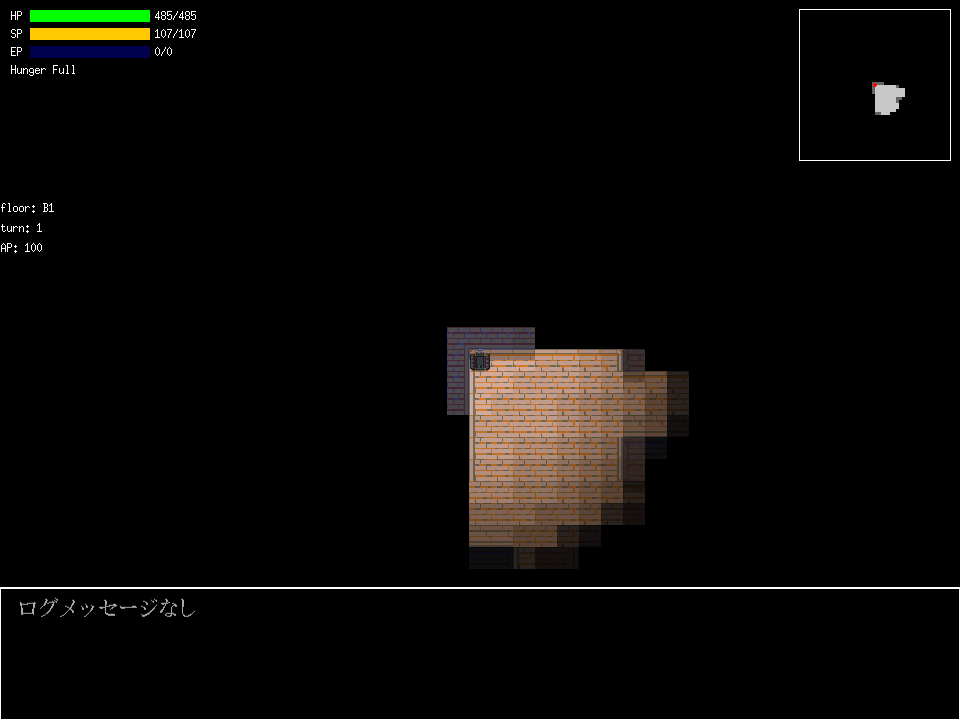
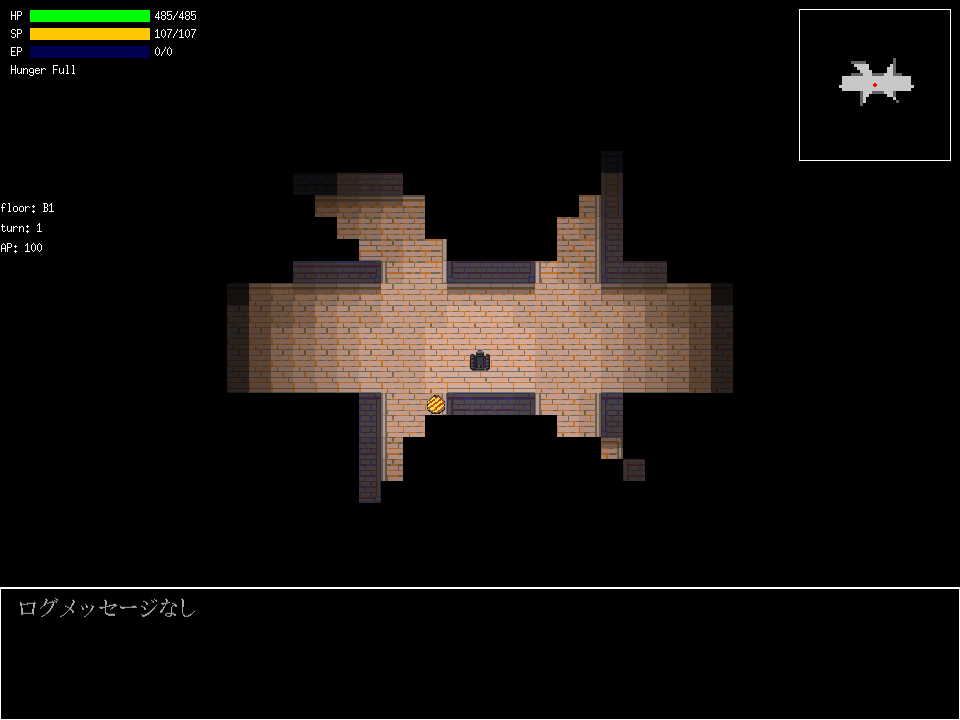
chore: 暗闇の範囲を調整した(少し視界を広くした)

Changed region(s): [[0.2188, 0.2139, 0.7812, 0.7944], [0.875, 0.0611, 0.9688, 0.1833]]

diff --git a/lib/systems/vision.go b/lib/systems/vision.go
@@ -76,10 +76,8 @@ func VisionSystem(world w.World, screen *ebiten.Image) {
 	var visibilityData map[string]TileVisibility
 
 	if needsUpdate {
-		// Dungeonリソースから探索済みマップを取得
-
 		// タイルの可視性マップを更新
-		visionRadius := gc.Pixel(320)
+		visionRadius := gc.Pixel(384)
 		visibilityData = calculateTileVisibilityWithDistance(world, playerPos.X, playerPos.Y, visionRadius)
 
 		// 視界内のタイルを探索済みとしてマーク

diff --git a/lib/cmd/screenshot.go b/lib/cmd/screenshot.go
@@ -33,7 +33,7 @@ func runScreenshot(ctx *cli.Context) error {
 		vrt.RunTestGame(gs.NewDebugMenuState(), mode)
 	case gs.DungeonState{}.String():
 		// いい感じのseed値
-		const seedVal = 4012
+		const seedVal = 1
 		vrt.RunTestGame(&gs.DungeonState{
 			Depth:       1,
 			Seed:        seedVal,
